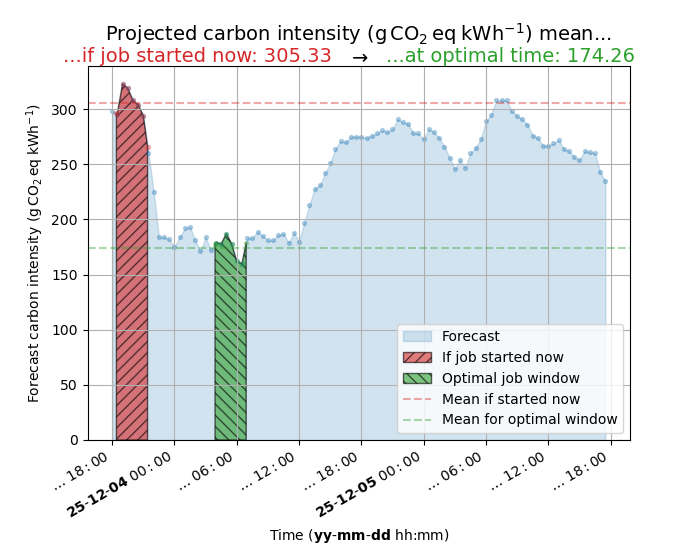
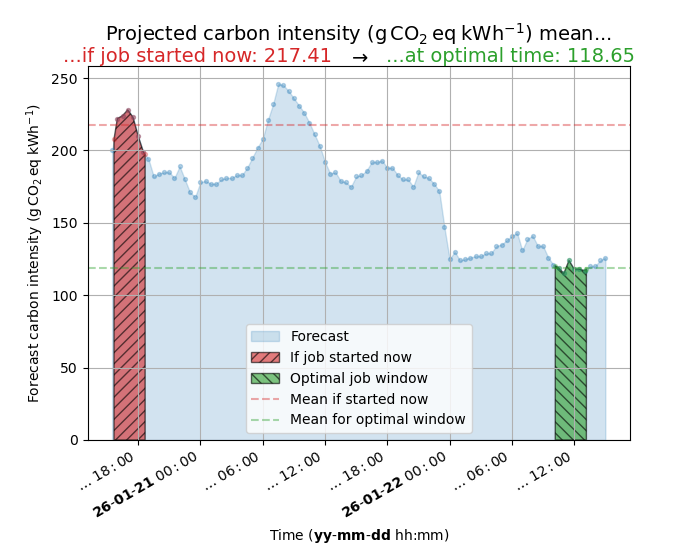
Docs: update README & showcase plot to quote an actual result

diff --git a/README.md b/README.md
@@ -28,12 +28,25 @@ To find the minimal carbon intensity window for a 3 hour (`180` minute duration)
 at the `RG1` postcode and show visually the carbon intensity curve and optimal window with
 the `--plot` argument:
 
-```bash
-cats --duration 180 --location "RG1" --plot
+```console
+$ cats --duration 180 --location "RG1" --plot
+...
+
+The.____ ..... __ .... ________ . ______...
+.. /  __)...../  \....(__    __).)  ____)....
+..|  /......./    \......|  |...(  (___........
+..| |limate./  ()  \ware.|  |ask.\___  \cheduler
+..|  \__...|   __   |....|  |....____)  )....
+...\    )..|  (..)  |....|  |...(      (..
+
+
+Best job start time                       = 2026-01-22 10:10:31
+Carbon intensity if job started now       = 217.41 gCO2eq/kWh
+Carbon intensity at optimal time          = 118.65 gCO2eq/kWh
 ```
 
-which produced (when run at ~18:20 on 2025-12-03, for context) a forecast minimum of
-`174.26 gCO2eq/kWh` at `2025-12-04 03:54:34` as reported in the STDOUT and
+which produced at the time run (`Tue 20 Jan 15:40:21 GMT 2026`) a forecast minimum of
+`118.65 gCO2eq/kWh` for job start time `2026-01-22 10:10:31` as reported in the STDOUT above and
 illustrated by the resulting plot of:
 
 ![CATS command run plot example output for RG1 and 3 hour job](docs/source/_static/example_plot_output_rg1_180mins.png)
